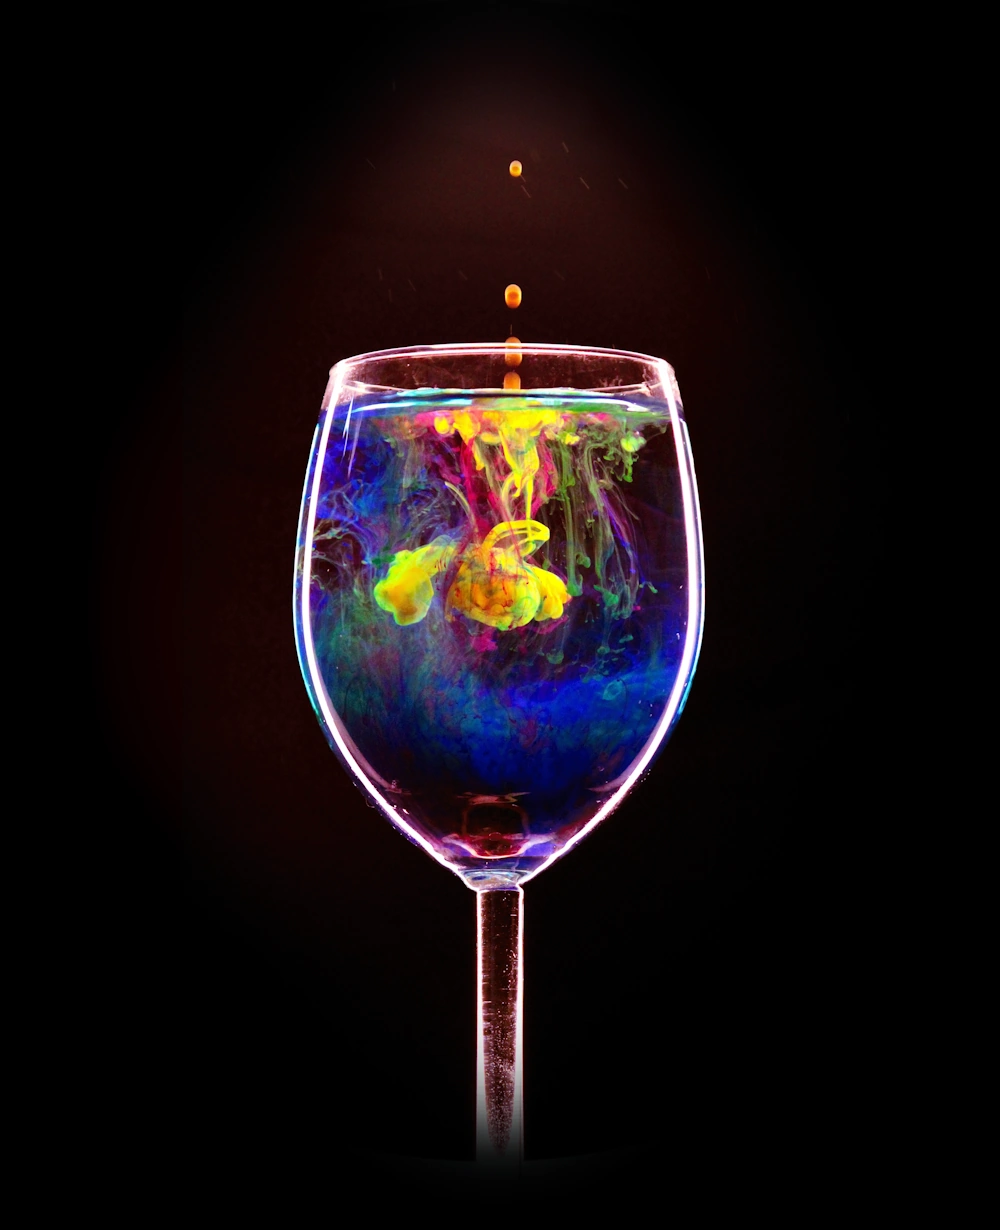
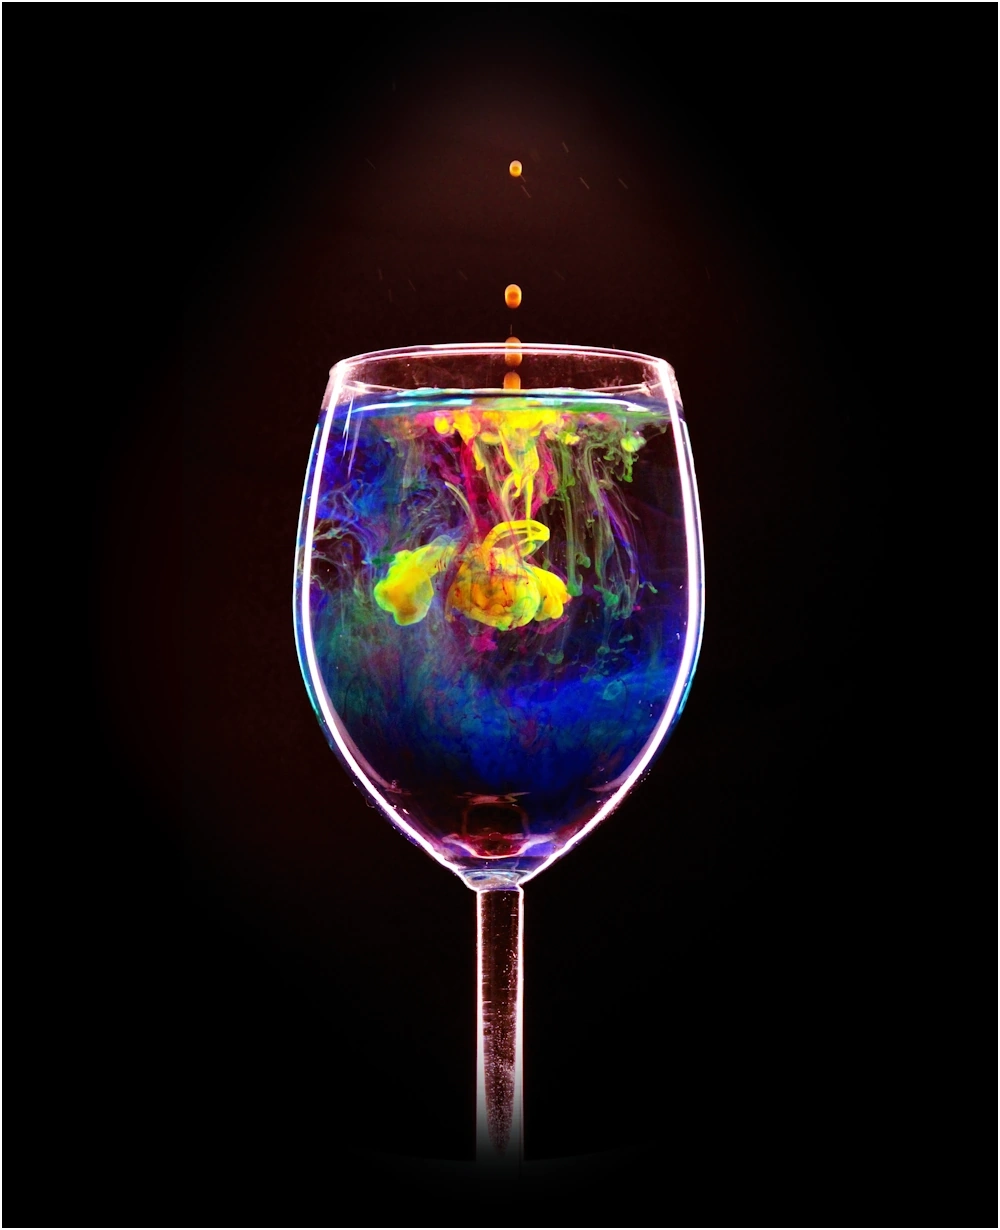
updates

Changed region(s): [[0.0, 0.0, 1.0, 1.0], [0.0, 0.0, 0.031, 0.0309]]

diff --git a/index.html b/index.html
@@ -1,1 +1,1 @@
-<!doctypehtml><html lang=en-us style=margin:0;overflow:hidden;background-color:#000;color:#fff;width:100%;height:100%><head><meta content="text/html; charset=utf-8"http-equiv=Content-Type><meta content="width=device-width,initial-scale=1"name=viewport><meta charset=utf-8><title>michael liu digital photo</title><link as=font crossorigin href=./fdb.otf rel=preload><link as=font crossorigin href=./fdl.otf rel=preload><meta content=strict-origin-when-cross-origin name=referrer><style>@font-face{font-family:fd;src:url("./fdb.otf") format("opentype")}@font-face{font-family:fti;src:url("./fti.otf") format("opentype")}i{font-family:fti}@font-face{font-family:fdl;src:url("./fdl.otf") format("opentype")}.clb{border-radius:4rem;border:.125rem solid #fff;background-color:#000;color:#fff;padding:.33rem;padding-left:1rem;padding-right:1rem;font:1rem fd,sans-serif;transition:transform .1s ease-in-out}.clb:hover{transform:scale(105%);cursor:pointer}.smooth-opacity{transition:opacity .5s ease-out}.tiny-page{width:75vw;height:100vh;padding-left:12.5vw;display:flex;flex-direction:row}.half{width:50%;height:100%;display:flex;flex-direction:column;place-content:center;align-content:center;align-items:center}</style></head><body style=margin:0;overflow:hidden;background-color:#000;position:relative;width:100%;height:100%><canvas class=smooth-opacity id=canvas style=display:none;opacity:0;margin:auto;position:absolute;top:0;left:0></canvas><div style=display:none;opacity:0;margin:auto;position:absolute;top:0;left:0;width:100%;align-content:center class=smooth-opacity id=tiny><div style=position:relative class=tiny-page><div class=half><img src=14.jpg style=width:50%;aspect-ratio:1></div><div class=half><div style="font:1.5rem fd,sans-serif;width:100%">about me!</div><div style="font:1rem fdl,sans-serif"><p>i'm currently a senior at mission san jose high school in fremont, california. i love taking photos of anything that looks interesting to me: nature, technology, architecture, people, or even a combination of all those things! in addition, i'm passionate about graphic design and 3d modeling.</p><p>outside of photography, i'm an avid coder and i love running, biking, and taking public transport. you'll also find me restoring vintage computers and keyboards in my spare time.</p><p>welcome to my portfolio! please enjoy this collection of my artwork from my digital photography class and from hobby :D</p></div></div></div><div style=position:relative class=tiny-page><div class=half><div style=display:grid;grid-template-columns:repeat(6,auto);grid-template-rows:repeat(2,auto);width:66%;gap:1rem><img src=9.webp style="grid-column:1/span 2;grid-row:1;max-width:100%"loading=lazy><img src=10.webp style="grid-column:3/span 2;grid-row:1;max-width:100%"loading=lazy><img src=11.webp style="grid-column:5/span 2;grid-row:1;max-width:100%"loading=lazy><img src=12.webp style="grid-column:2/span 2;grid-row:2;max-width:100%"loading=lazy><img src=13.webp style="grid-column:4/span 2;grid-row:2;max-width:100%"loading=lazy></div></div><div class=half><div style="font:1.5rem fdl,sans-serif;width:100%">you take public transit? <span style="font:1.5rem fd,sans-serif">that tracks.</span></div><div style="font:1rem fdl,sans-serif"><p>this is a photo essay i created to submit to the 2026 kqed youth media challenge. it centers upon BART, the rapid transport system that we have in the bay area. as mentioned in my bio above, i really do love taking public transport — i think it's a system that should be treasured and loved, not neglected and stigmatized.</p><p>i set out to create with writing and photography a story that tells why i love taking public transit, why it's important to have in our modern society, and what it means to the bay area community.</p><p>you can see the photo essay here: <a href=https://youthmedia.kqed.org/submission/Njk3MTNhMTE1ZjQ1NDczN2M2OWE1NzNi>https://youthmedia.kqed.org/submission/Njk3MTNhMTE1ZjQ1NDczN2M2OWE1NzNi</a></p><p></p></div></div></div><div class=tiny-page><div class=half><div style=display:grid;grid-template-columns:repeat(3,auto);grid-template-rows:auto;width:75%;gap:1rem;place-items:center><img src=1.webp style=grid-column:1;grid-row:1;max-width:100% loading=lazy><img src=7.webp style=grid-column:2;grid-row:1;max-width:100% loading=lazy><img src=0.webp style="grid-column:3;grid-row:1;max-width:100%;border:.0625rem solid #fff"loading=lazy></div></div><div class=half><div style="font:1.5rem fd,sans-serif;width:100%">objects.</div><div style="font:1rem fdl,sans-serif;width:100%"><p style=width:100%>it's fun to capture the beauty of everyday objects.</p></div></div></div><div class=tiny-page><div class=half><div style="display:grid;grid-template-columns:2.193fr 1fr;grid-template-rows:auto;height:50%;width:75%;max-width:75%;gap:1rem;place-items:center"><img src=2.webp style=grid-column:1;grid-row:1;max-height:100%;max-width:100% loading=lazy><img src=5.webp style=grid-column:2;grid-row:1;max-height:100%;max-width:100% loading=lazy></div></div><div class=half><div style="font:1.5rem fd,sans-serif;width:100%">artsy.</div><div style="font:1rem fdl,sans-serif;width:100%"><p style=width:100%>art is beautiful too.</p></div></div></div><div class=tiny-page><div class=half><div style="display:grid;grid-template-columns:1.293fr 1fr;grid-template-rows:auto;height:50%;width:75%;max-width:75%;gap:1rem;place-items:center"><img src=6.webp style=grid-column:1;grid-row:1;max-height:100%;max-width:100% loading=lazy><img src=8.webp style=grid-column:2;grid-row:1;max-height:100%;max-width:100% loading=lazy></div></div><div class=half><div style="font:1.5rem fd,sans-serif;width:100%">blending.</div><div style="font:1rem fdl,sans-serif;width:100%"><p style=width:100%>i love free software.</p></div></div></div></div><div style=display:flex;flex-direction:column;margin:auto;position:absolute;top:0;left:0;width:100vw;height:100vh;align-items:center;place-content:center;align-content:center class=smooth-opacity id=main><div style="font:1.5rem fd,sans-serif">michael liu</div><div style=padding-top:.5rem></div><div style="font:1rem fdl,sans-serif">digital photography, graphic design, 3d modeling</div><div style=padding-top:1rem></div><div style=gap:1rem;display:flex;flex-direction:row><button class=clb id=webgpu-button onclick=loadWasm()>webgpu site</button> <button class=clb id=tiny-button onclick=loadTiny()>tiny site</button></div></div><script>var Module={};let canvas=document.querySelector("canvas");function resizeCanvas(){canvas.style.width=window.innerWidth+"px",canvas.style.height=window.innerHeight+"px",canvas.isOffscreen||(canvas.width=Math.round(window.innerWidth*window.devicePixelRatio),canvas.height=Math.round(window.innerHeight*window.devicePixelRatio)),window.resizeCallback&&getWasmTableEntry(window.resizeCallback)()}function loadWasm(){document.getElementById("webgpu-button").onclick=function(){};var e=e=>fetch(e).then((e=>e.arrayBuffer()));Promise.all([e("index.js"),e("index.wasm")]).then((e=>{Module.wasm=e[1];var n=URL.createObjectURL(new Blob([e[0]],{type:"application/javascript"}));(function(e){return new Promise((n=>{var t=document.createElement("script");t.src=e,t.onload=()=>{n()},document.body.appendChild(t)}))})(n).then((()=>URL.revokeObjectURL(n)))})),document.querySelector("body").style.overflow="hidden",document.querySelector("html").style.overflow="hidden",document.querySelector("#main").style.opacity="0",setTimeout((function(){document.querySelector("#main").style.display="none"}),500),document.querySelector("#canvas").style.display="block",document.querySelector("#canvas").style.opacity="100%"}function loadTiny(){document.getElementById("tiny-button").onclick=function(){},document.querySelector("body").style.overflowY="scroll",document.querySelector("#main").style.opacity="0",document.querySelector("#tiny").style.display="block",setTimeout((function(){document.querySelector("#main").style.display="none",document.querySelector("#tiny").style.opacity="100%"}),500)}location.search.includes("windowed")||(resizeCanvas(),onresize=resizeCanvas)</script></body><link as=image crossorigin href=./0.webp rel=preload><link as=image crossorigin href=./1.webp rel=preload><link as=image crossorigin href=./2.webp rel=preload><link as=image crossorigin href=./3.webp rel=preload><link as=image crossorigin href=./4.webp rel=preload><link as=image crossorigin href=./5.webp rel=preload><link as=image crossorigin href=./6.webp rel=preload><link as=image crossorigin href=./7.webp rel=preload><link as=image crossorigin href=./8.webp rel=preload><link as=image crossorigin href=./9.webp rel=preload><link as=image crossorigin href=./10.webp rel=preload><link as=image crossorigin href=./11.webp rel=preload><link as=image crossorigin href=./12.webp rel=preload><link as=image crossorigin href=./13.webp rel=preload></html>
+<!doctypehtml><html lang=en-us style=margin:0;overflow:hidden;background-color:#000;color:#fff;width:100%;height:100%><head><meta content="text/html; charset=utf-8"http-equiv=Content-Type><meta content="width=device-width,initial-scale=1"name=viewport><meta charset=utf-8><title>michael liu digital photo</title><link as=font crossorigin href=./fdb.otf rel=preload><link as=font crossorigin href=./fdl.otf rel=preload><meta content=strict-origin-when-cross-origin name=referrer><style>@font-face{font-family:fd;src:url("./fdb.otf") format("opentype")}@font-face{font-family:fti;src:url("./fti.otf") format("opentype")}i{font-family:fti}@font-face{font-family:fdl;src:url("./fdl.otf") format("opentype")}.clb{border-radius:4rem;border:.125rem solid #fff;background-color:#000;color:#fff;padding:.33rem;padding-left:1rem;padding-right:1rem;font:1rem fd,sans-serif;transition:transform .1s ease-in-out}.clb:hover{transform:scale(105%);cursor:pointer}.smooth-opacity{transition:opacity .5s ease-out}.tiny-page{width:75vw;height:100vh;padding-left:12.5vw;display:flex;flex-direction:row}.half{width:50%;height:100%;display:flex;flex-direction:column;place-content:center;align-content:center;align-items:center}</style></head><body style=margin:0;overflow:hidden;background-color:#000;position:relative;width:100%;height:100%><canvas class=smooth-opacity id=canvas style=display:none;opacity:0;margin:auto;position:absolute;top:0;left:0></canvas><div style=display:none;opacity:0;margin:auto;position:absolute;top:0;left:0;width:100%;align-content:center class=smooth-opacity id=tiny><div style=position:relative class=tiny-page><div class=half><img src=14.jpg style=width:50%;aspect-ratio:1></div><div class=half><div style="font:1.5rem fd,sans-serif;width:100%">about me!</div><div style="font:1rem fdl,sans-serif"><p>i'm currently a senior at mission san jose high school in fremont, california. i love taking photos of anything that looks interesting to me: nature, technology, architecture, people, or even a combination of all those things! in addition, i'm passionate about graphic design and 3d modeling.</p><p>outside of photography, i'm an avid coder and i love running, biking, and taking public transport. you'll also find me restoring vintage computers and keyboards in my spare time.</p><p>welcome to my portfolio! please enjoy this collection of my artwork from my digital photography class and from hobby :D</p></div></div></div><div style=position:relative class=tiny-page><div class=half><div style=display:grid;grid-template-columns:repeat(6,auto);grid-template-rows:repeat(2,auto);width:66%;gap:1rem><img src=9.webp style="grid-column:1/span 2;grid-row:1;max-width:100%"loading=lazy><img src=10.webp style="grid-column:3/span 2;grid-row:1;max-width:100%"loading=lazy><img src=11.webp style="grid-column:5/span 2;grid-row:1;max-width:100%"loading=lazy><img src=12.webp style="grid-column:2/span 2;grid-row:2;max-width:100%"loading=lazy><img src=13.webp style="grid-column:4/span 2;grid-row:2;max-width:100%"loading=lazy></div></div><div class=half><div style="font:1.5rem fdl,sans-serif;width:100%">you take public transit? <span style="font:1.5rem fd,sans-serif">that tracks.</span></div><div style="font:1rem fdl,sans-serif"><p>this is a photo essay i created to submit to the 2026 kqed youth media challenge. it centers upon BART, the rapid transport system that we have in the bay area. as mentioned in my bio above, i really do love taking public transport — i think it's a system that should be treasured and loved, not neglected and stigmatized.</p><p>i set out to create with writing and photography a story that tells why i love taking public transit, why it's important to have in our modern society, and what it means to the bay area community.</p><p>you can see the photo essay here: <a href=https://youthmedia.kqed.org/submission/Njk3MTNhMTE1ZjQ1NDczN2M2OWE1NzNi>https://youthmedia.kqed.org/submission/Njk3MTNhMTE1ZjQ1NDczN2M2OWE1NzNi</a></p><p></p></div></div></div><div class=tiny-page><div class=half><div style=display:grid;grid-template-columns:repeat(3,auto);grid-template-rows:auto;width:75%;gap:1rem;place-items:center><img src=1.webp style=grid-column:1;grid-row:1;max-width:100% loading=lazy><img src=7.webp style=grid-column:2;grid-row:1;max-width:100% loading=lazy><img src=0.webp style=grid-column:3;grid-row:1;max-width:100% loading=lazy></div></div><div class=half><div style="font:1.5rem fd,sans-serif;width:100%">objects.</div><div style="font:1rem fdl,sans-serif;width:100%"><p style=width:100%>it's fun to capture the beauty of everyday objects.</p></div></div></div><div class=tiny-page><div class=half><div style="display:grid;grid-template-columns:2.193fr 1fr;grid-template-rows:auto;height:50%;width:75%;max-width:75%;gap:1rem;place-items:center"><img src=2.webp style=grid-column:1;grid-row:1;max-height:100%;max-width:100% loading=lazy><img src=5.webp style=grid-column:2;grid-row:1;max-height:100%;max-width:100% loading=lazy></div></div><div class=half><div style="font:1.5rem fd,sans-serif;width:100%">artsy.</div><div style="font:1rem fdl,sans-serif;width:100%"><p style=width:100%>art is beautiful too.</p></div></div></div><div class=tiny-page><div class=half><div style="display:grid;grid-template-columns:1.293fr 1fr;grid-template-rows:auto;height:50%;width:75%;max-width:75%;gap:1rem;place-items:center"><img src=6.webp style=grid-column:1;grid-row:1;max-height:100%;max-width:100% loading=lazy><img src=8.webp style=grid-column:2;grid-row:1;max-height:100%;max-width:100% loading=lazy></div></div><div class=half><div style="font:1.5rem fd,sans-serif;width:100%">blending.</div><div style="font:1rem fdl,sans-serif;width:100%"><p style=width:100%>i love free software.</p></div></div></div></div><div style=display:flex;flex-direction:column;margin:auto;position:absolute;top:0;left:0;width:100vw;height:100vh;align-items:center;place-content:center;align-content:center class=smooth-opacity id=main><div style="font:1.5rem fd,sans-serif">michael liu</div><div style=padding-top:.5rem></div><div style="font:1rem fdl,sans-serif">digital photography, graphic design, 3d modeling</div><div style=padding-top:1rem></div><div style=gap:1rem;display:flex;flex-direction:row><button class=clb id=webgpu-button onclick=loadWasm()>webgpu site</button> <button class=clb id=tiny-button onclick=loadTiny()>tiny site</button></div></div><script>var Module={};let canvas=document.querySelector("canvas");function resizeCanvas(){canvas.style.width=window.innerWidth+"px",canvas.style.height=window.innerHeight+"px",canvas.isOffscreen||(canvas.width=Math.round(window.innerWidth*window.devicePixelRatio),canvas.height=Math.round(window.innerHeight*window.devicePixelRatio)),window.resizeCallback&&getWasmTableEntry(window.resizeCallback)()}function loadWasm(){document.getElementById("webgpu-button").onclick=function(){};var e=e=>fetch(e).then((e=>e.arrayBuffer()));Promise.all([e("index.js"),e("index.wasm")]).then((e=>{Module.wasm=e[1];var n=URL.createObjectURL(new Blob([e[0]],{type:"application/javascript"}));(function(e){return new Promise((n=>{var t=document.createElement("script");t.src=e,t.onload=()=>{n()},document.body.appendChild(t)}))})(n).then((()=>URL.revokeObjectURL(n)))})),document.querySelector("body").style.overflow="hidden",document.querySelector("html").style.overflow="hidden",document.querySelector("#main").style.opacity="0",setTimeout((function(){document.querySelector("#main").style.display="none"}),500),document.querySelector("#canvas").style.display="block",document.querySelector("#canvas").style.opacity="100%"}function loadTiny(){document.getElementById("tiny-button").onclick=function(){},document.querySelector("body").style.overflowY="scroll",document.querySelector("#main").style.opacity="0",document.querySelector("#tiny").style.display="block",setTimeout((function(){document.querySelector("#main").style.display="none",document.querySelector("#tiny").style.opacity="100%"}),500)}location.search.includes("windowed")||(resizeCanvas(),onresize=resizeCanvas)</script></body><link as=image crossorigin href=./0.webp rel=preload><link as=image crossorigin href=./1.webp rel=preload><link as=image crossorigin href=./2.webp rel=preload><link as=image crossorigin href=./3.webp rel=preload><link as=image crossorigin href=./4.webp rel=preload><link as=image crossorigin href=./5.webp rel=preload><link as=image crossorigin href=./6.webp rel=preload><link as=image crossorigin href=./7.webp rel=preload><link as=image crossorigin href=./8.webp rel=preload><link as=image crossorigin href=./9.webp rel=preload><link as=image crossorigin href=./10.webp rel=preload><link as=image crossorigin href=./11.webp rel=preload><link as=image crossorigin href=./12.webp rel=preload><link as=image crossorigin href=./13.webp rel=preload></html>
